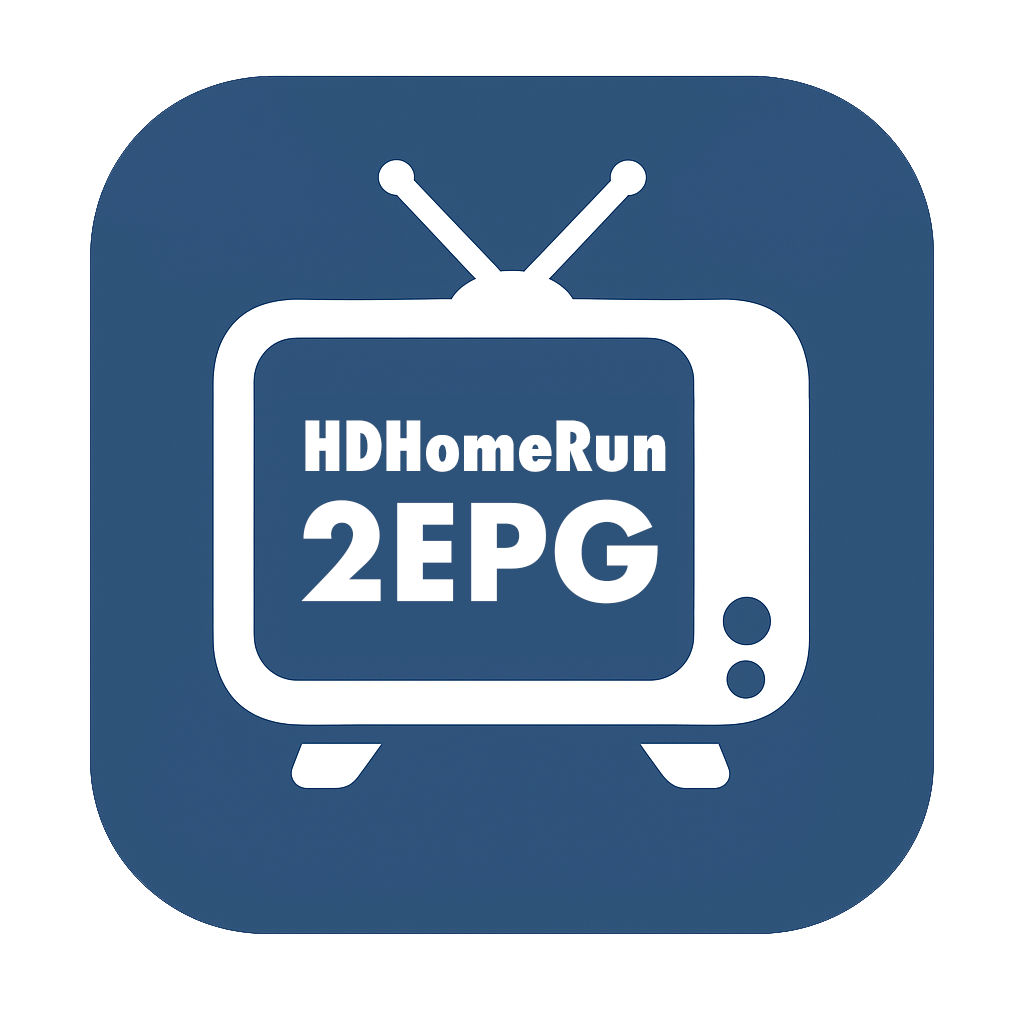
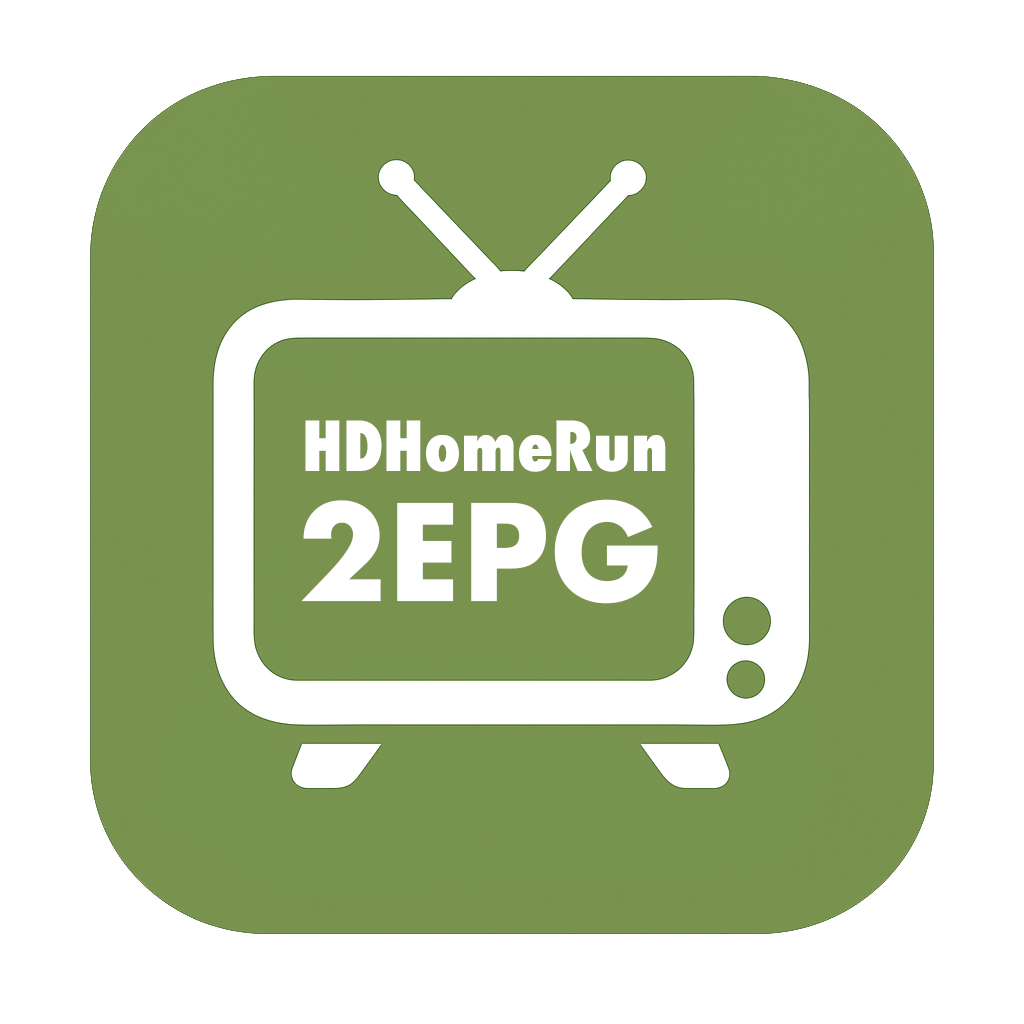
Apply brand color #90c43e throughout dashboard CSS

diff --git a/src/server/express-server.ts b/src/server/express-server.ts
@@ -223,7 +223,7 @@ export class EPGServer {
     }
     h1 {
       color: #333;
-      border-bottom: 2px solid #4CAF50;
+      border-bottom: 2px solid #90c43e;
       padding-bottom: 10px;
       display: flex;
       align-items: center;
@@ -237,12 +237,12 @@ export class EPGServer {
       background: #f9f9f9;
       padding: 15px;
       margin: 15px 0;
-      border-left: 4px solid #4CAF50;
+      border-left: 4px solid #90c43e;
       border-radius: 5px;
     }
     .endpoint h3 {
       margin-top: 0;
-      color: #4CAF50;
+      color: #90c43e;
     }
     .endpoint a {
       color: #2196F3;
@@ -252,11 +252,12 @@ export class EPGServer {
     }
     .endpoint a:hover {
       text-decoration: underline;
+      color: #90c43e;
     }
     .status {
       margin-top: 20px;
       padding: 15px;
-      background: #e8f5e9;
+      background: #f0f7e5;
       border-radius: 5px;
     }
     .description {
